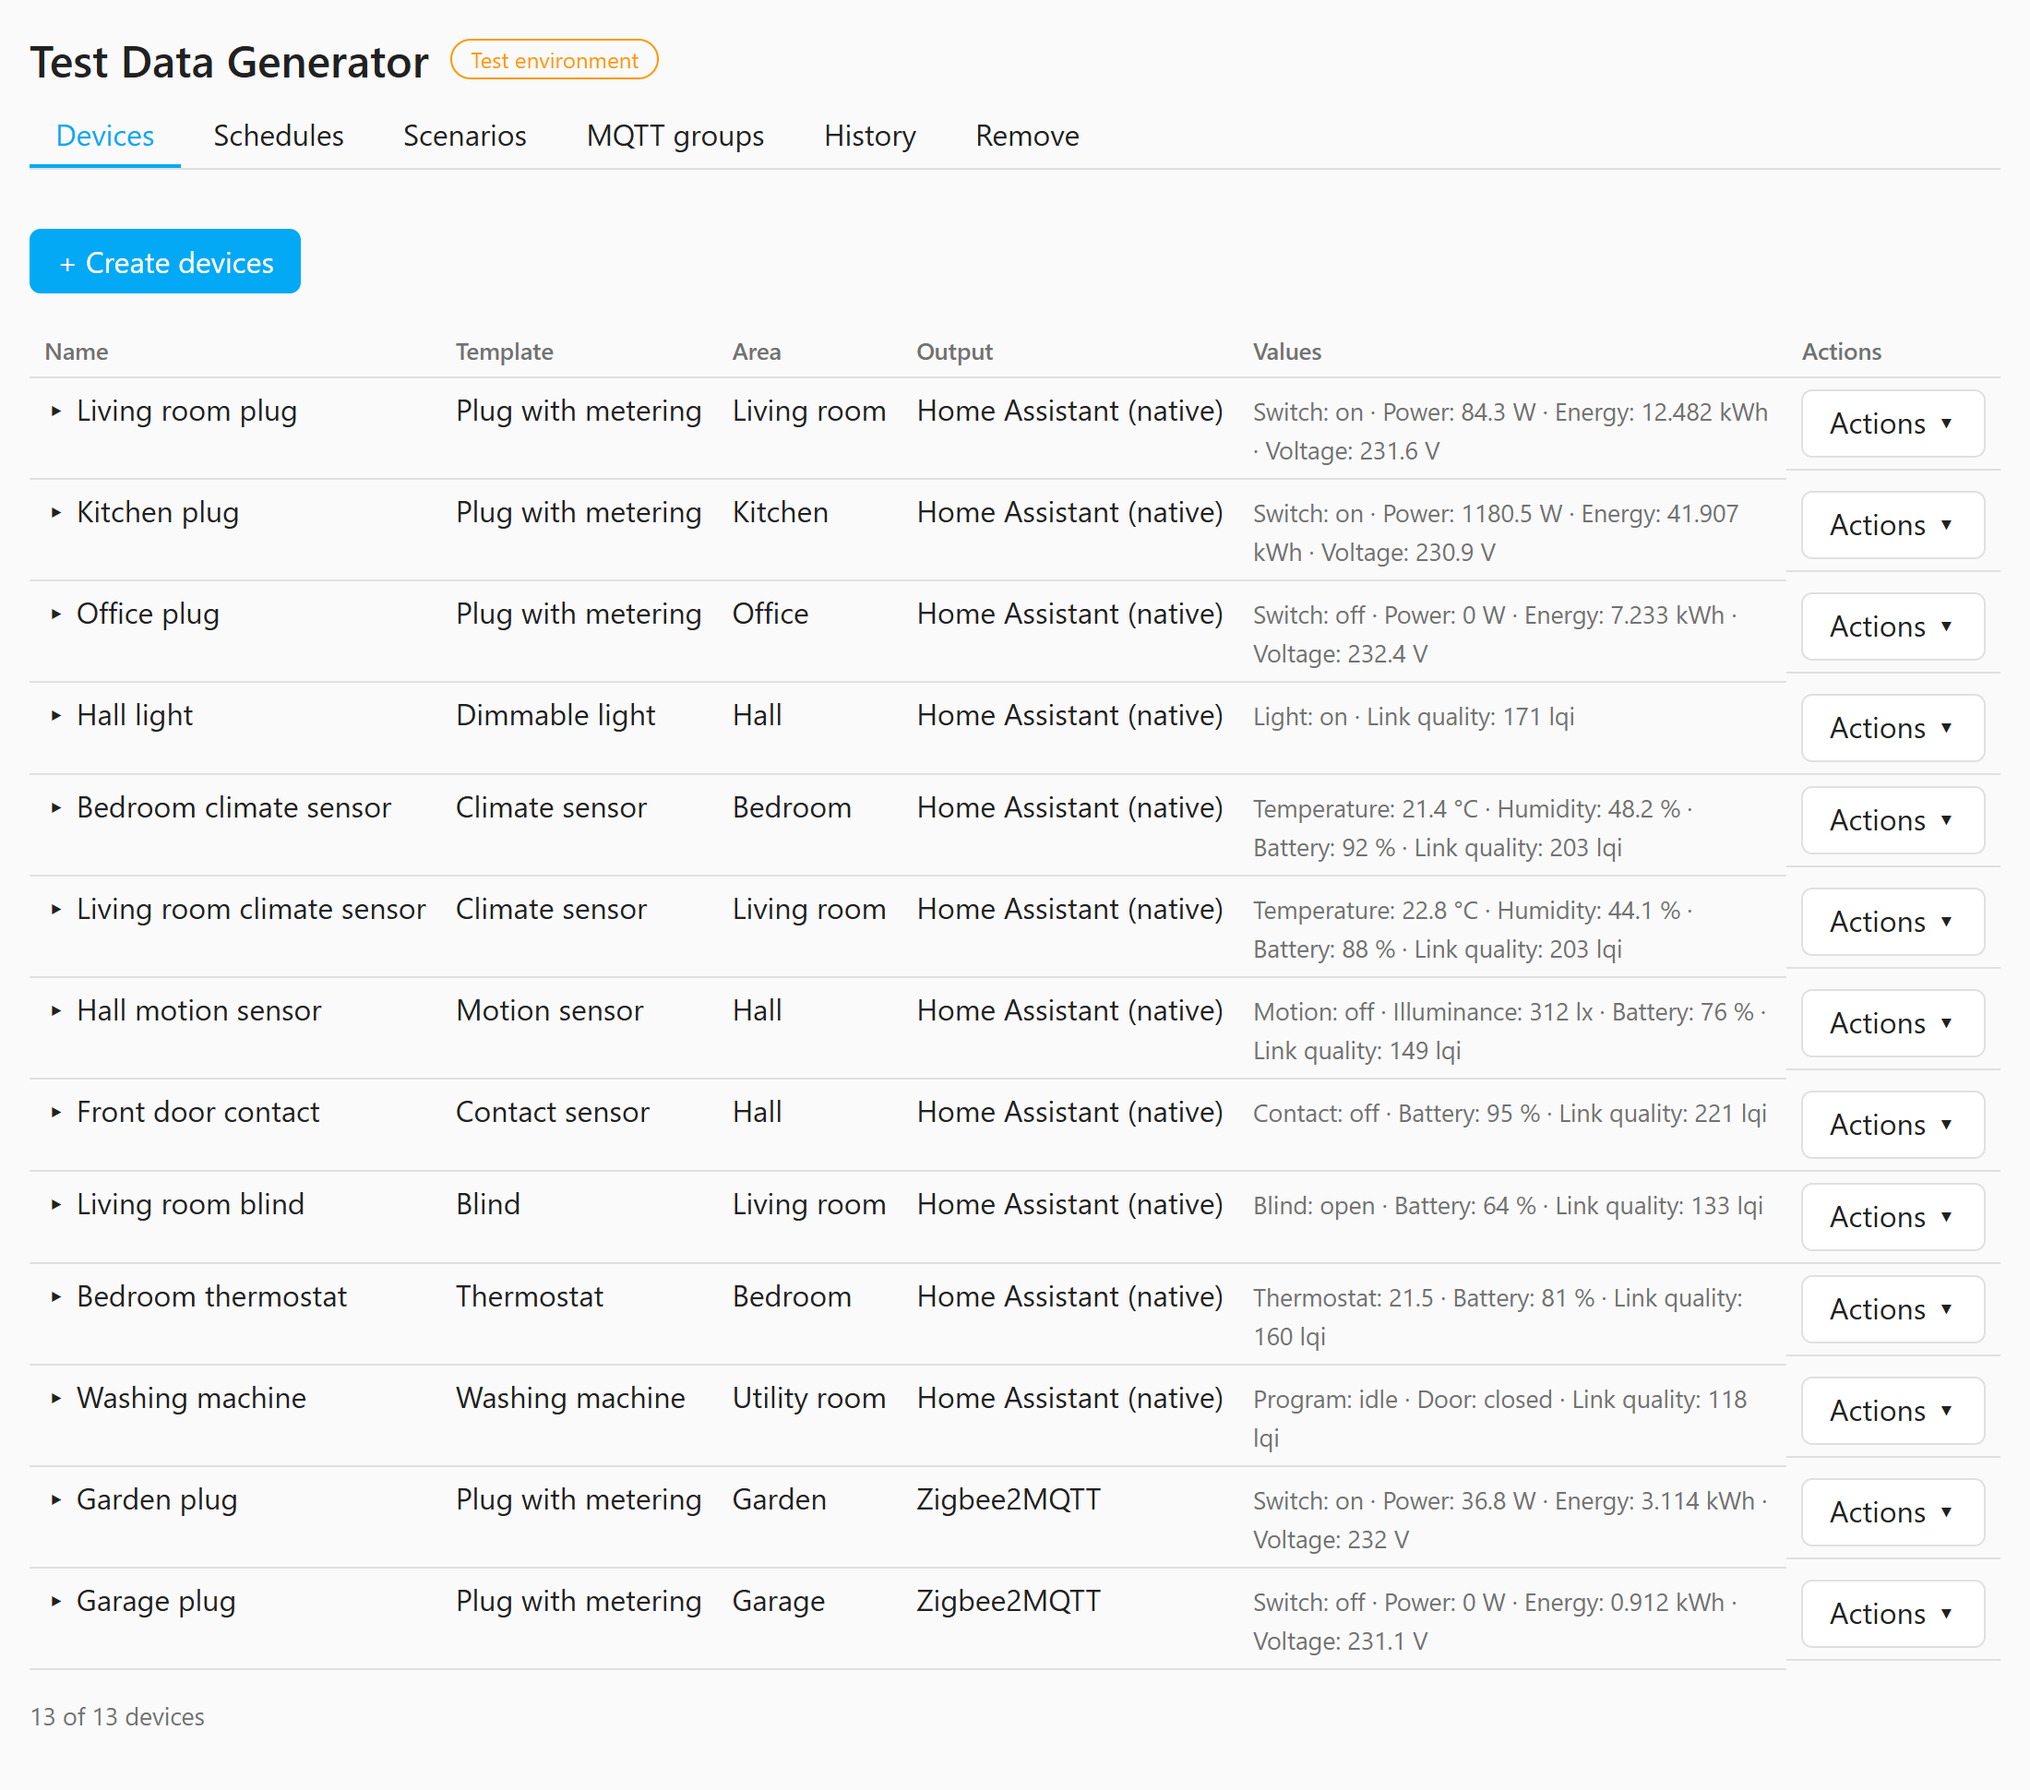
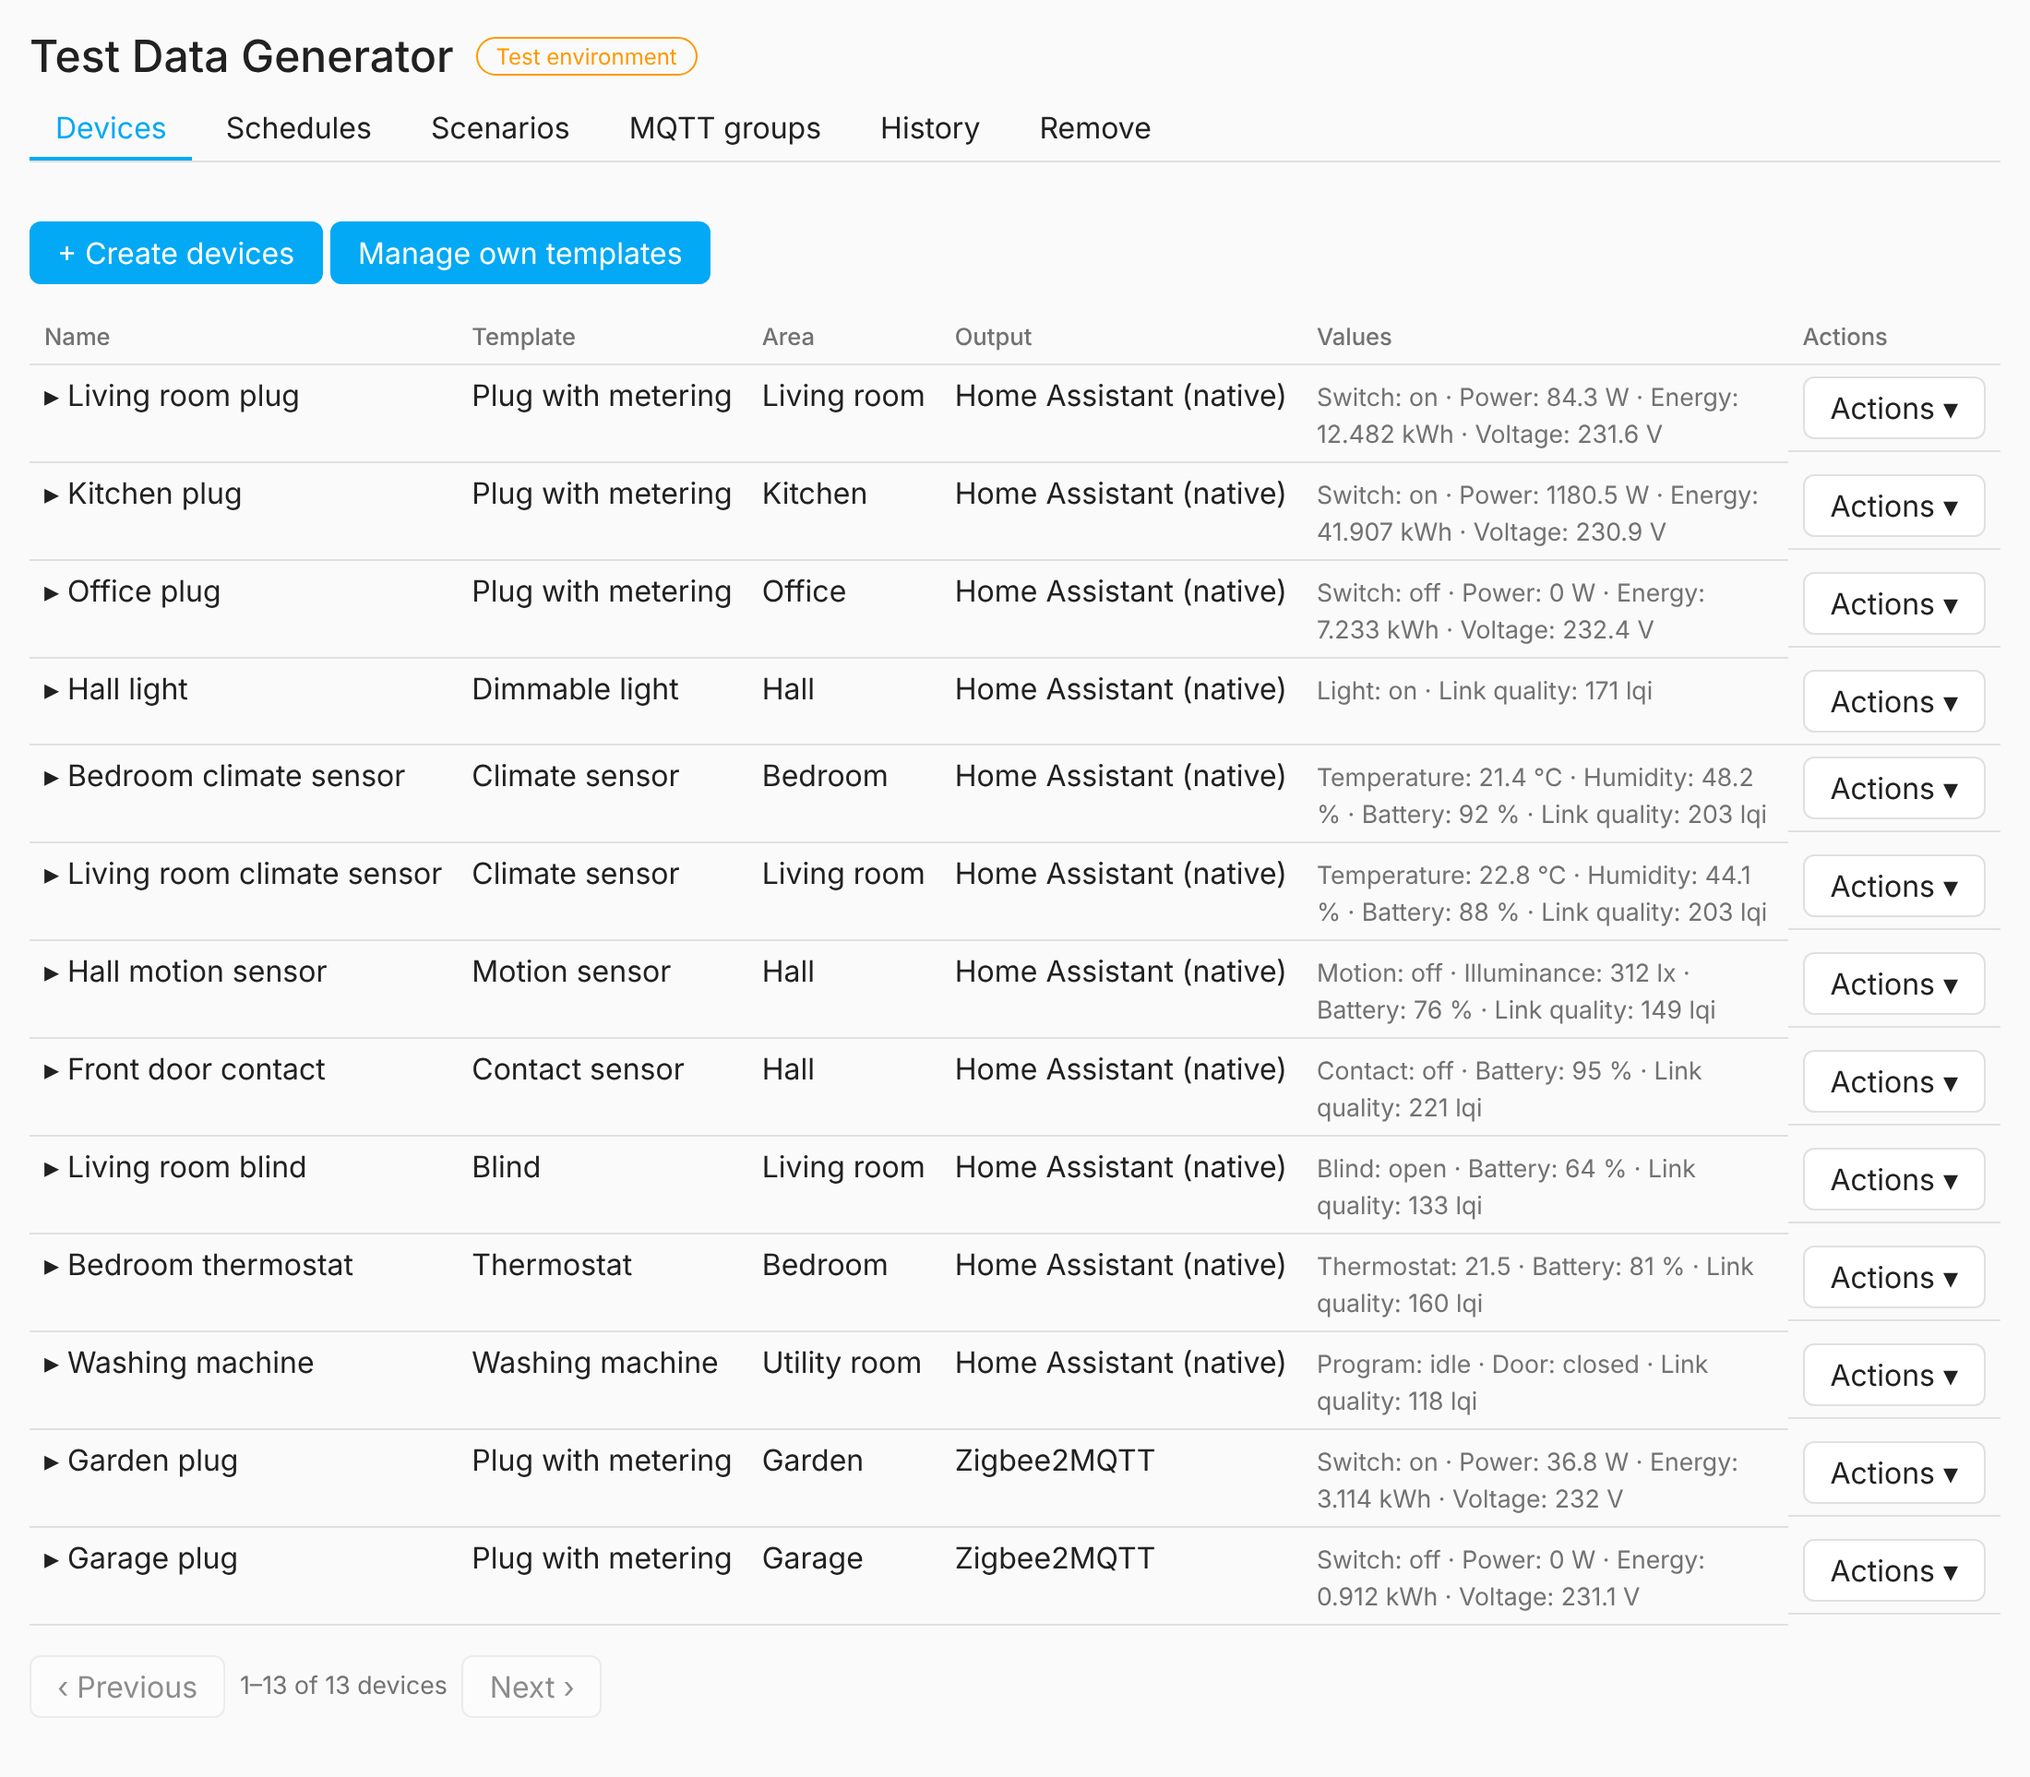
docs: new screenshots and README for the 1.0.0 release
Claude-Session: https://claude.ai/code/session_01GJNKFfHwLtJgxBQHYYayQq

diff --git a/panel-src/screenshots/harness.html b/panel-src/screenshots/harness.html
@@ -61,6 +61,8 @@
           data.templates = data.templates.filter((t) => t.id !== m.template_id);
           return {};
         },
+        'devices/get': (m) => data.devices.find((d) => d.id === m.device),
+        'devices/names': () => ({ devices: data.devices }),
         'devices/list': () => ({ total: data.devices.length, devices: data.devices }),
         'schedules/list': () => data.schedules,
         'schedules/preview': () => data.runs,

diff --git a/README.md b/README.md
@@ -38,33 +38,37 @@ Not planned for now: YAML import and export, sharing of templates. See [docs/con
 
 The panel in the sidebar of Home Assistant (admin only). The images are rendered with demo data by `npm run screenshots` in `panel-src`.
 
-**Devices**: every generated device with its values; open one to change its area and the curve of a sensor, and to see where it is used.
+**Devices**: every generated device with its values; open one to change its area and the curve of a sensor, and to see where it is used. "Create devices" has an entity editor for custom devices, and "Manage own templates" lists, edits and deletes your own templates.
 
-![The device list](https://raw.githubusercontent.com/stacknoise/hass-test-data-creator/main/docs/images/devices.png?v=1)
+![The device list](https://raw.githubusercontent.com/stacknoise/hass-test-data-creator/main/docs/images/devices.png?v=2)
 
-![A device with its curve editor and its uses](https://raw.githubusercontent.com/stacknoise/hass-test-data-creator/main/docs/images/device-details.png?v=1)
+![A device with its curve editor and its uses](https://raw.githubusercontent.com/stacknoise/hass-test-data-creator/main/docs/images/device-details.png?v=2)
 
-![The popup that creates devices](https://raw.githubusercontent.com/stacknoise/hass-test-data-creator/main/docs/images/create-devices.png?v=1)
+![The popup that creates devices](https://raw.githubusercontent.com/stacknoise/hass-test-data-creator/main/docs/images/create-devices.png?v=2)
+
+![A custom device that starts from a template, with the entity editor](https://raw.githubusercontent.com/stacknoise/hass-test-data-creator/main/docs/images/create-custom-device.png?v=2)
+
+![The popup that manages the own templates](https://raw.githubusercontent.com/stacknoise/hass-test-data-creator/main/docs/images/own-templates.png?v=2)
 
 **Schedules and scenarios**: schedules with the planned runs of the next 24 hours, and scenarios as timed steps.
 
-![The schedules with the next 24 hours](https://raw.githubusercontent.com/stacknoise/hass-test-data-creator/main/docs/images/schedules.png?v=1)
+![The schedules with the next 24 hours](https://raw.githubusercontent.com/stacknoise/hass-test-data-creator/main/docs/images/schedules.png?v=2)
 
-![The popup of a new schedule](https://raw.githubusercontent.com/stacknoise/hass-test-data-creator/main/docs/images/schedule-new.png?v=1)
+![The popup of a new schedule](https://raw.githubusercontent.com/stacknoise/hass-test-data-creator/main/docs/images/schedule-new.png?v=2)
 
-![A scenario with its steps](https://raw.githubusercontent.com/stacknoise/hass-test-data-creator/main/docs/images/scenarios.png?v=1)
+![A scenario with its steps](https://raw.githubusercontent.com/stacknoise/hass-test-data-creator/main/docs/images/scenarios.png?v=2)
 
 **MQTT groups, history and removal**
 
-![The MQTT groups](https://raw.githubusercontent.com/stacknoise/hass-test-data-creator/main/docs/images/groups.png?v=1)
+![The MQTT groups](https://raw.githubusercontent.com/stacknoise/hass-test-data-creator/main/docs/images/groups.png?v=2)
 
-![The statistics import](https://raw.githubusercontent.com/stacknoise/hass-test-data-creator/main/docs/images/history.png?v=1)
+![The statistics import](https://raw.githubusercontent.com/stacknoise/hass-test-data-creator/main/docs/images/history.png?v=2)
 
-![The removal with its plan](https://raw.githubusercontent.com/stacknoise/hass-test-data-creator/main/docs/images/removal.png?v=1)
+![The removal with its plan](https://raw.githubusercontent.com/stacknoise/hass-test-data-creator/main/docs/images/removal.png?v=2)
 
 ## Status
 
-Version 1.0.0 (panel API version 2: `devices/list` no longer returns the curves, use the new `devices/get`; the new `devices/names` serves the pickers with the key, name, platform, state class and curve shape of each entity). Requires Home Assistant 2026.9.0 or newer. The integration creates devices over the native output and, with the MQTT integration set up, over MQTT discovery and in the Zigbee2MQTT format including groups (see the release plan in [docs/concept.md](https://github.com/stacknoise/hass-test-data-creator/blob/main/docs/concept.md)). New since 0.3.0: statistics backfill, time lapse, CSV replay, and a reworked panel (popups to create and change devices, schedules, scenarios and MQTT groups, device details with the curve editor, targets of several devices with only the actions that all of them can do, protection of devices that are in use, and screenshots in this README). Tried in a running test instance of Home Assistant with a Mosquitto broker; native Home Assistant groups are not created.
+Version 1.0.0 (panel API version 2: `devices/list` no longer returns the curves, use the new `devices/get`; the new `devices/names` serves the pickers with the key, name, platform, state class and curve shape of each entity). Requires Home Assistant 2026.9.0 or newer. The integration creates devices over the native output and, with the MQTT integration set up, over MQTT discovery and in the Zigbee2MQTT format including groups (see the release plan in [docs/concept.md](https://github.com/stacknoise/hass-test-data-creator/blob/main/docs/concept.md)). New since 0.3.0: own templates (saved, edited and deleted in the panel), an entity editor for custom devices, a curve preview that zooms in on short periods, unit suggestions from Home Assistant, statistics backfill, time lapse, CSV replay, and a reworked panel (popups to create and change devices, schedules, scenarios and MQTT groups, device details with the curve editor, targets of several devices with only the actions that all of them can do, protection of devices that are in use, and screenshots in this README). Tried in a running test instance of Home Assistant with a Mosquitto broker; native Home Assistant groups are not created.
 
 ## Installation (HACS)
 

diff --git a/docs/development.md b/docs/development.md
@@ -203,7 +203,7 @@ Every error is a `TdcError` with an `ErrorCode`.
 - It does not repeat the concept. Details link to the chapter of `docs/concept.md`.
 - Examples in the README are copied from working calls; a changed service field changes its example.
 - Before merging, read the README once against the diff: the feature list, the service table and the status line must match the code.
-- The screenshots in `docs/images` are rendered with demo data: after a visible change of the panel run `npm run build` and `npm run screenshots` in `panel-src` and commit the images (`SHOT_LANG=de` writes the German set to `panel-src/screenshots/out-de` for the homepage; it is not committed). The images are linked with absolute `raw.githubusercontent.com` URLs so that HACS renders them.
+- The screenshots in `docs/images` are rendered with demo data: after a visible change of the panel run `npm run build` and `npm run screenshots` in `panel-src` and commit the images (set `CHROMIUM_PATH` to use another browser than Edge; `SHOT_LANG=de` writes the German set to `panel-src/screenshots/out-de` for the homepage; it is not committed). The images are linked with absolute `raw.githubusercontent.com` URLs so that HACS renders them.
 - Workflows: `validate.yml` (hassfest, HACS validation, nightly), `tests.yml` (lint, CPD, pytest, panel job), `release.yml`, `codeql.yml`. A GitHub default CodeQL setup and a CodeQL workflow exclude each other; this repository uses the workflow.
 
 ### The concept document
